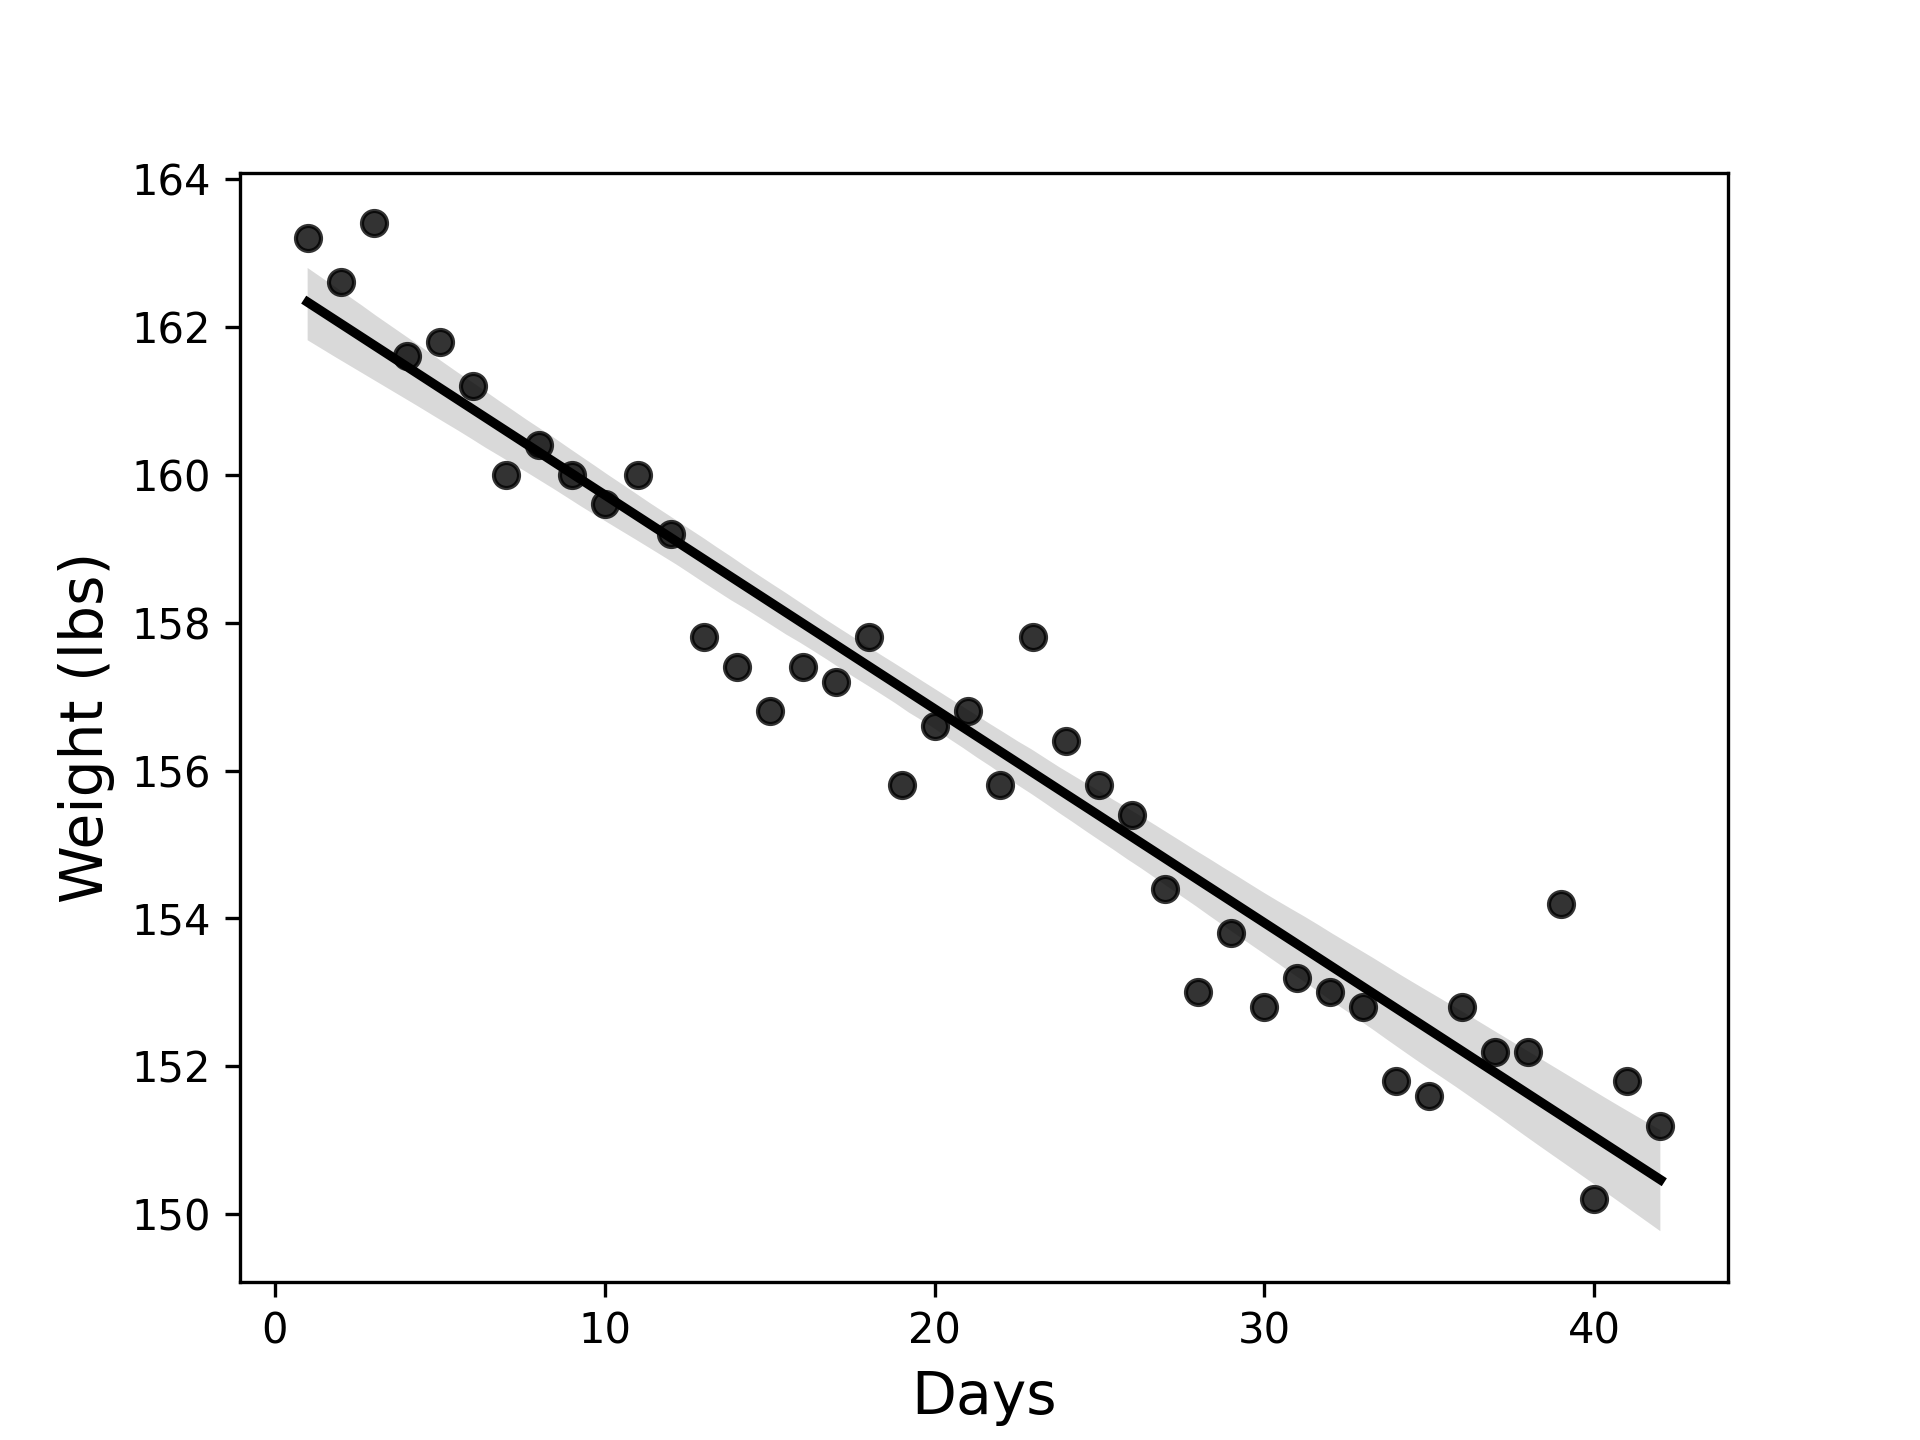
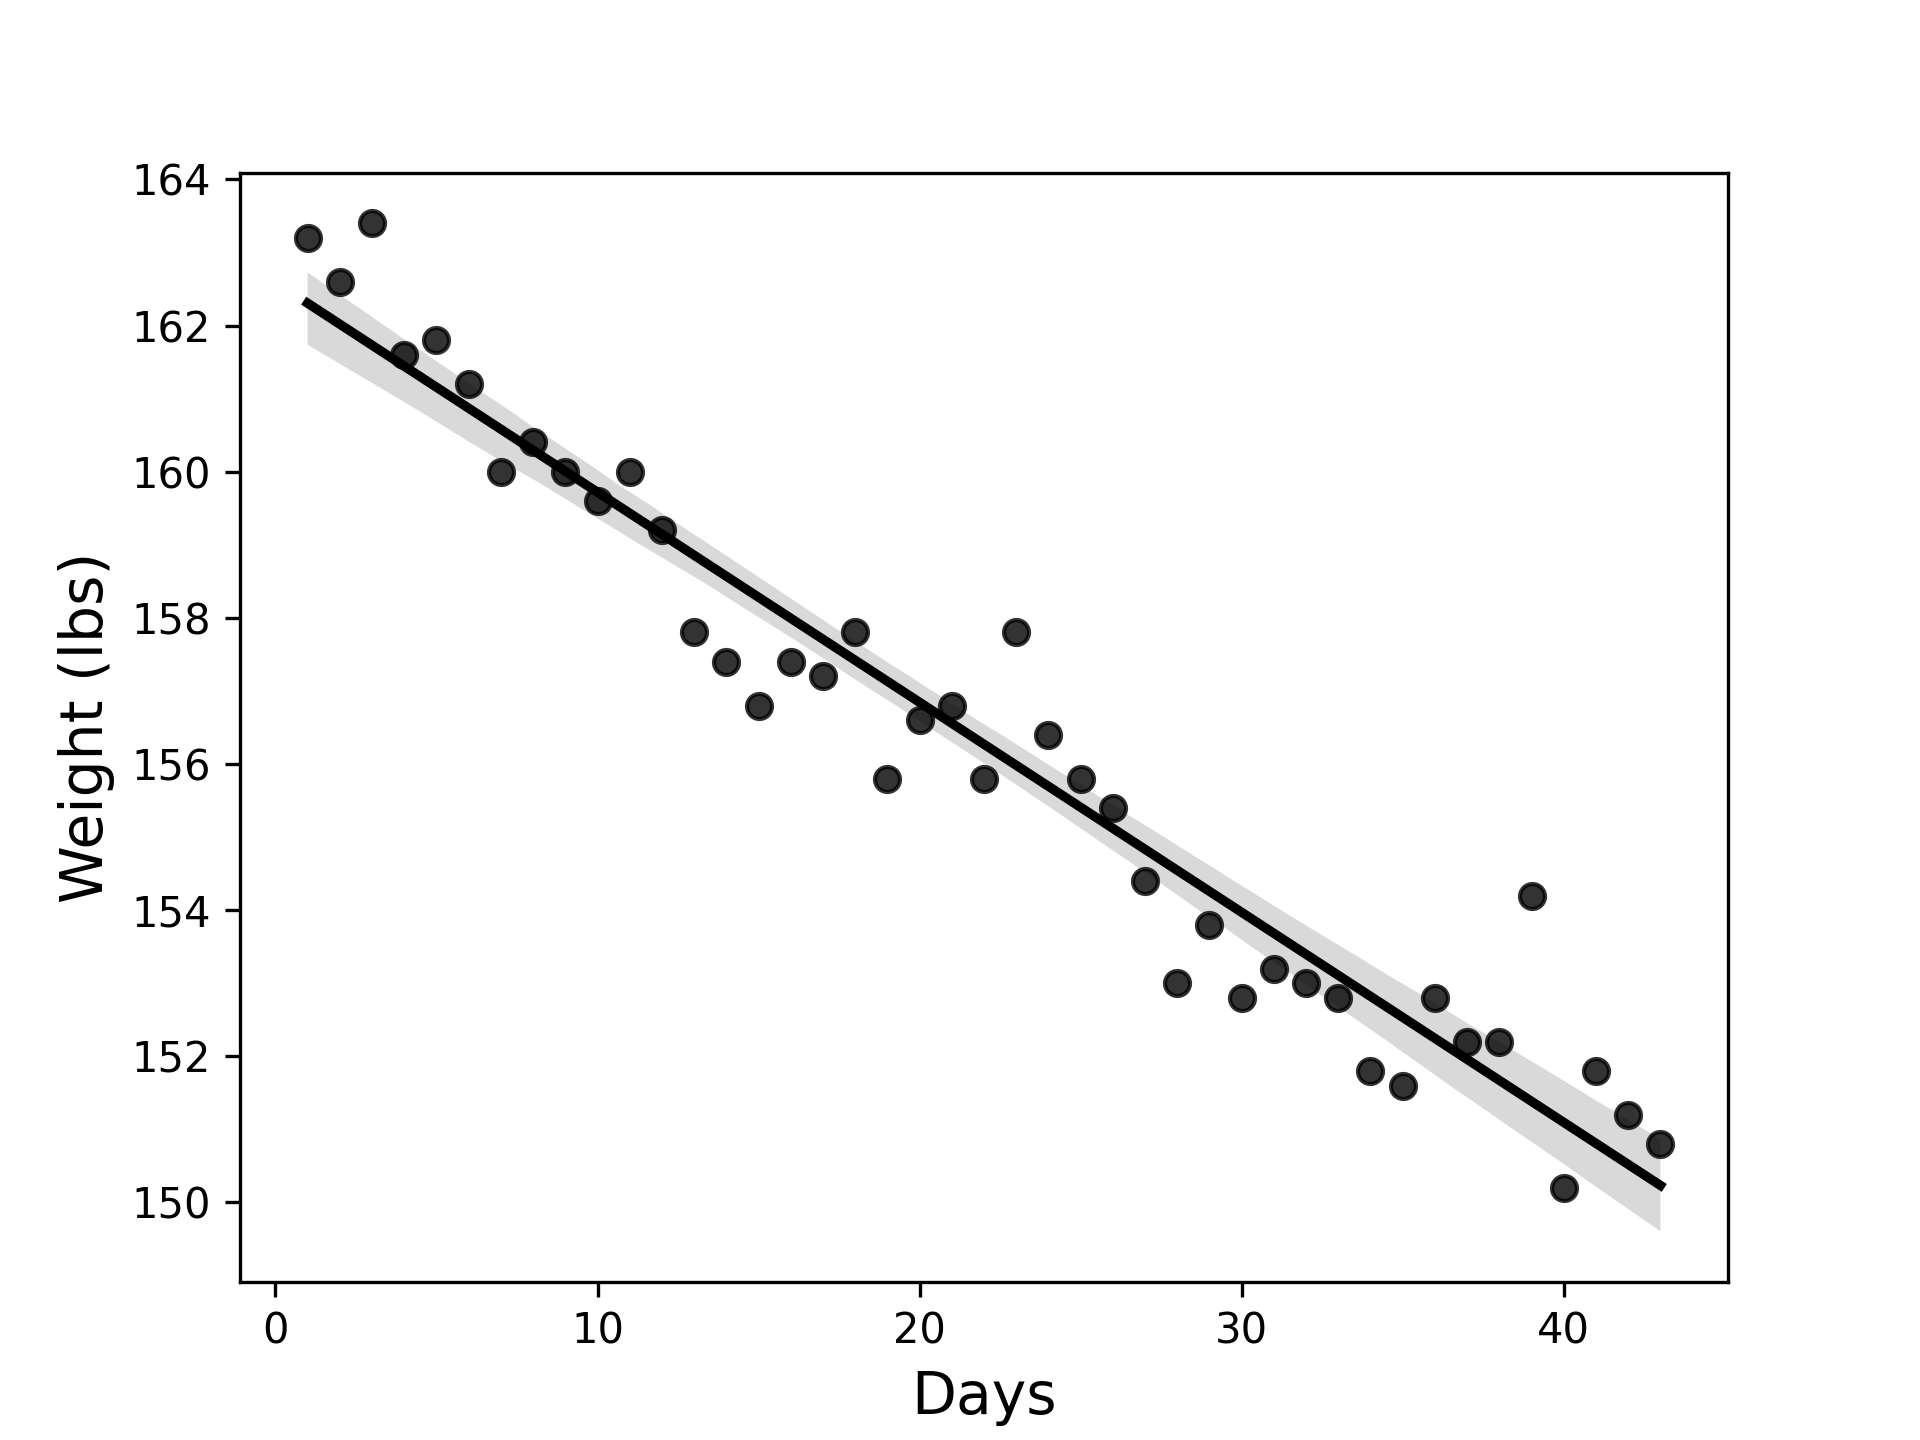
Updated weight.py and weight.png

diff --git a/Weight.py b/Weight.py
@@ -7,10 +7,10 @@ import seaborn as sns
 # Creates an array of elapsed days and assigns it to days_elapsed
 days_elapsed = np.array([1, 2, 3 ,4, 5, 6, 7, 8, 9, 10,11,12,13, 14,15,16,17,18,
                          19, 20,21,22,23,24,25,26,27,28,29,30,31,32,33,34,35,36,37,38,39,
-                         40,41,42]).reshape(-1,1)
+                         40,41,42,43]).reshape(-1,1)
 weight = np.array([163.2, 162.6, 163.4, 161.6, 161.8, 161.2, 160.0, 160.4, 160.0, 159.6,160.0,159.2,157.8, 157.4,156.8,157.4,
                    157.2, 157.8,155.8, 156.6,156.8,155.8,157.8,156.4,155.8,155.4,154.4,153.0,153.8,152.8,153.2,
-                   153.0,152.8,151.8,151.6,152.8,152.2,152.2,154.2,150.2, 151.8,151.2])
+                   153.0,152.8,151.8,151.6,152.8,152.2,152.2,154.2,150.2, 151.8,151.2,150.8])
 
 # Instantiates a LinearRegression model and fits it to the above arrays
 model = sklearn.linear_model.LinearRegression().fit(days_elapsed,weight)
